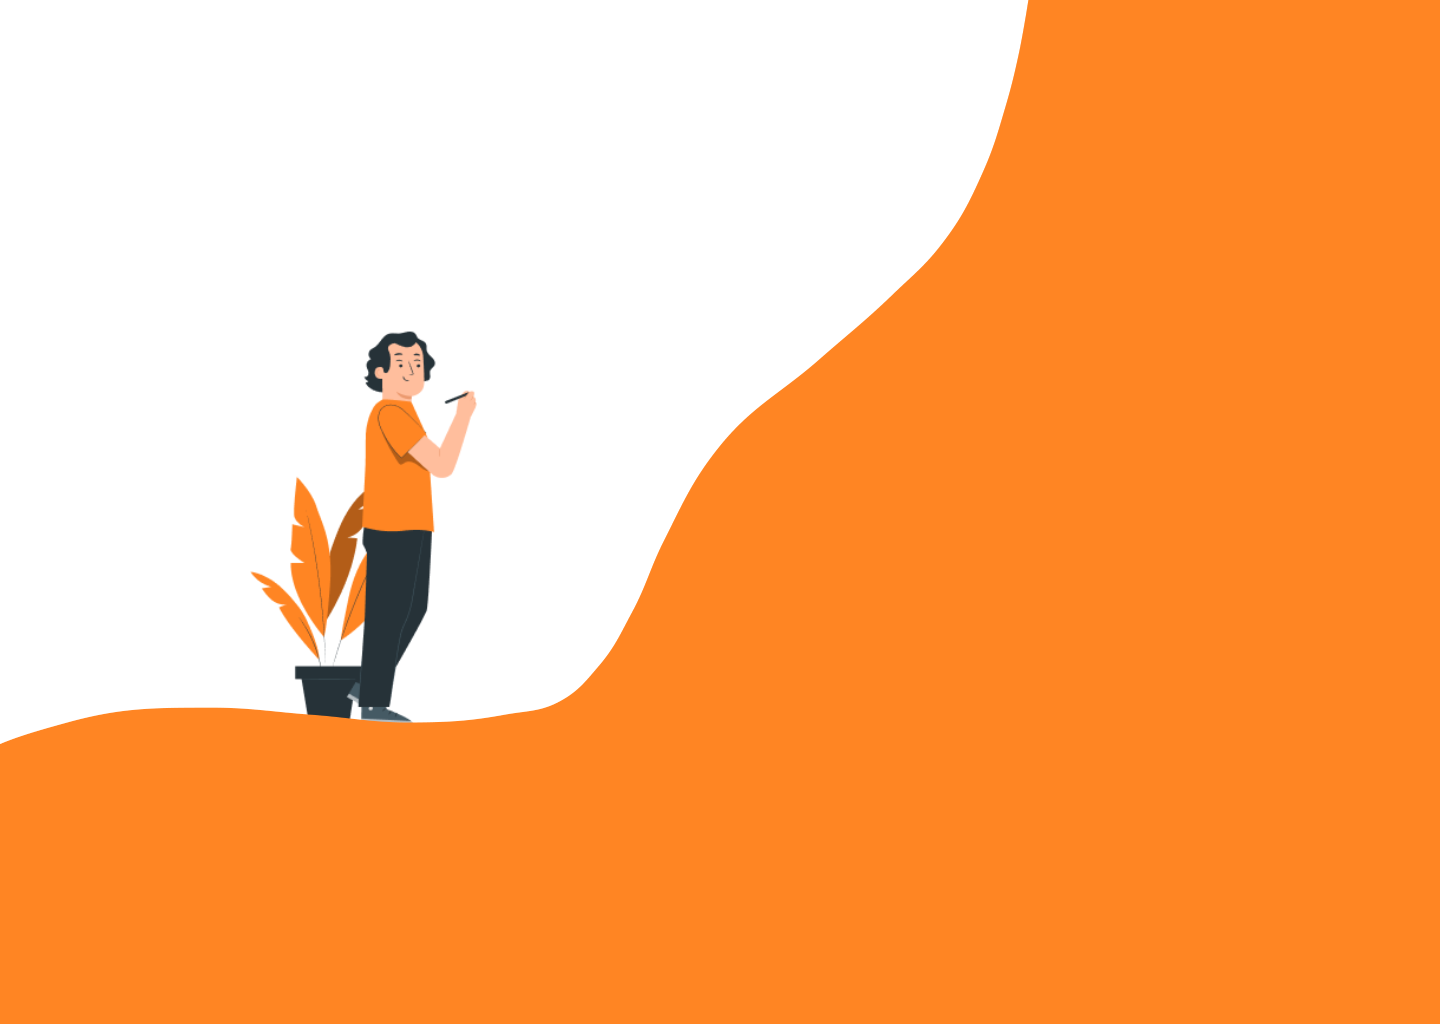
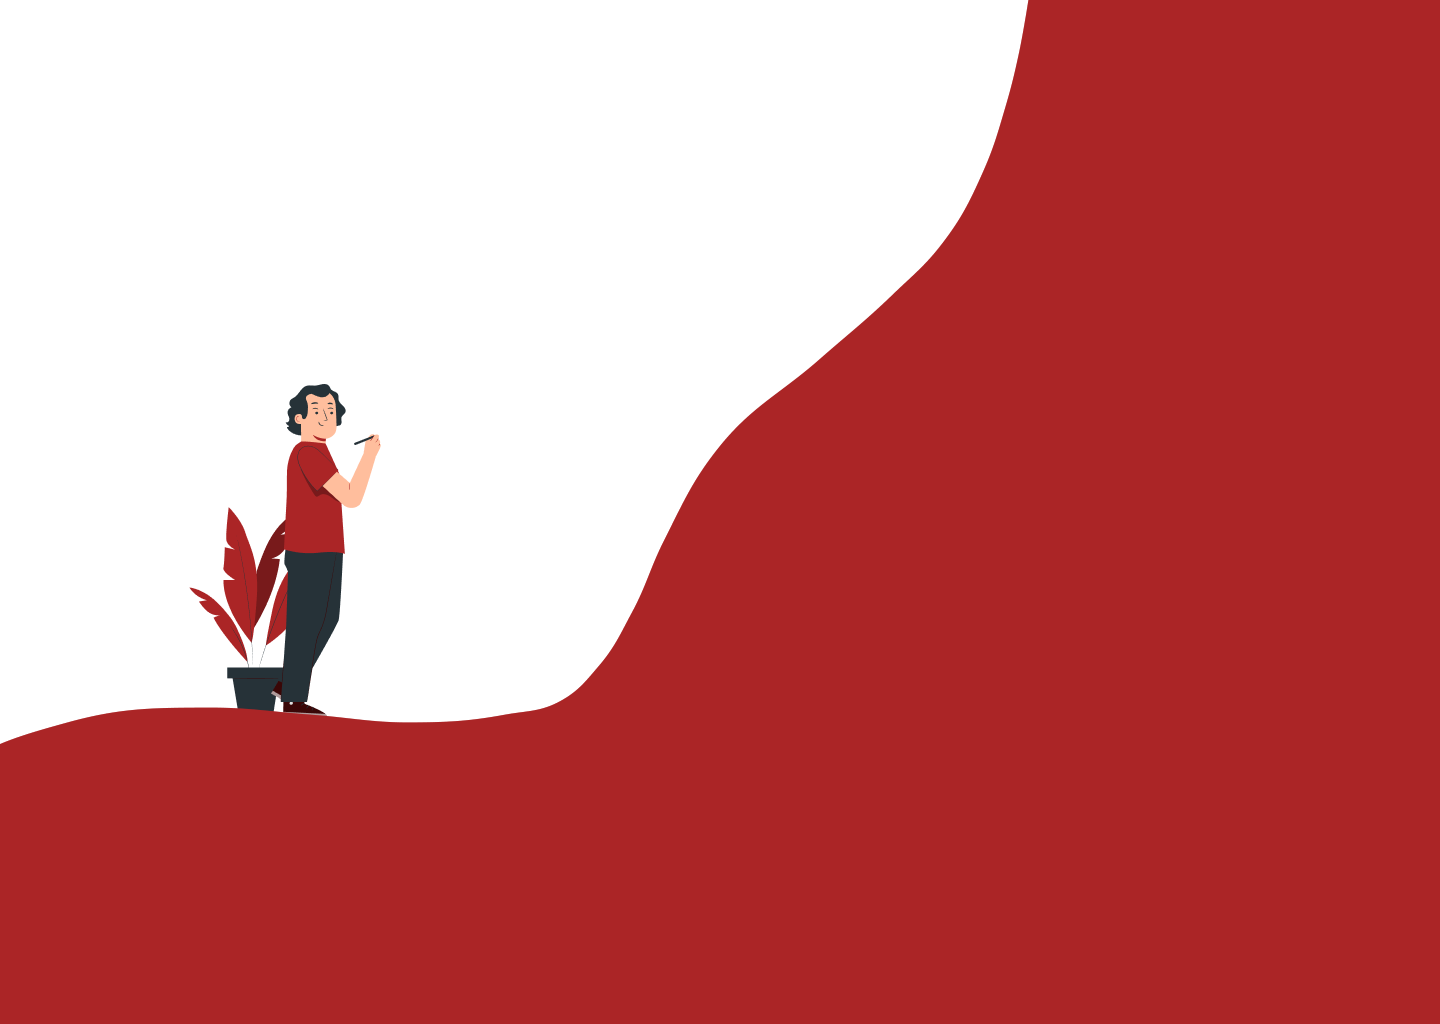
profile menos cerrar sesion

diff --git a/client/src/components/Main/Profile/Profile.jsx b/client/src/components/Main/Profile/Profile.jsx
@@ -8,6 +8,7 @@ import PropuestaCard from "./PropuestaCard/PropuestaCard";
 const Profile = () => {
     const { userstate } = useContext(userContext);
     const [data, setData] = useState(null);
+    const [hayFacturas, setHayFacturas] = useState(false);
 
     const Token = Cookies.get('Token');
 
@@ -50,27 +51,28 @@ const Profile = () => {
 
     const paintPropuestas = () => {
         if (data != null && data != undefined) {
-          return data.Clients?.map(client => (
-            Array.isArray(client.CUPs) && client.CUPs[0]?.facturas?.[0]?.map(factura => (
-                <PropuestaCard
+          return (<>
+          {data.Clients?.map(client => (
+            Array.isArray(client.CUPS) && client.CUPS[0]?.facturas?.length > 0 && (<>
+                {setHayFacturas(true)} 
+                {client.CUPS[0].facturas.map(factura => (
+                  <PropuestaCard
+                    key={factura.id}  
+                    Titular={client.titular}
+                    propuesta={factura.CIA}
+                    fecha={factura.createdAt}
+                  />
+                ))}
+            </>)
+          ))}
+          {!hayFacturas && <PropuestaCard
                 key={1}
-                Titular={client.titular}
-                propuesta={factura.CIA}
-                fecha={factura.cretedAt}
-                />
-            ))
-          ));
-        } else {
-            return (
-            <PropuestaCard
-                key={1}
-                Titular={"Restaurante Name"}
-                propuesta={"CIberdrola, S.A."}
-                fecha={"23 Junio, 2023"}
-                />
-            );
-        }
-      }
+                Titular={"Tilapia Fish"}
+                propuesta={"Endesa Energia, S.A."}
+                fecha={"19 Junio, 2023"}
+                />} </>);
+        } 
+    }
 
 
   return (
@@ -99,7 +101,7 @@ const Profile = () => {
                     <PropuestaCard
                         key={101}
                         Titular={"Restaurante Name"}
-                        propuesta={"CIberdrola, S.A."}
+                        propuesta={"Iberdrola, S.A."}
                         fecha={"23 Junio, 2023"}
                         />
                 </section>
@@ -109,15 +111,15 @@ const Profile = () => {
                     <h6>Propuestas pendientes</h6>
                     <PropuestaCard
                         key={200}
-                        Titular={"Rame Slogan"}
+                        Titular={"AB Creativa"}
                         propuesta={"Candela Energía, S.A."}
-                        fecha={"19 Junio, 2023"}
+                        fecha={"4 Junio, 2023"}
                         />
                     <PropuestaCard
                         key={201}
-                        Titular={"Restaurante Name"}
-                        propuesta={"CIberdrola, S.A."}
-                        fecha={"23 Junio, 2023"}
+                        Titular={"Trust and Co."}
+                        propuesta={"Acciona, S.A."}
+                        fecha={"8 Junio, 2023"}
                         />
                 </section>
             </section>

diff --git a/client/src/styles/components/_Profile.scss b/client/src/styles/components/_Profile.scss
@@ -9,6 +9,7 @@
   &>img {
     z-index: 1;
     width: 348px;
+    height: 329px;
     position: relative;
     top: 171px;
     left: 145px;
@@ -43,6 +44,7 @@
         align-items: center;
         &>img {
           height: 24px;
+          width: 24px;
           margin-right: 6px;
         }
         h5 {
@@ -51,11 +53,66 @@
       }
     }
   }
+  & #Propuestas {
+    position: absolute;
+    left: 48px;
+  }
+  & #PropuestasAceptadas {
+    position: absolute;
+    left: 501px;
+  }
+  & #PropuestasPendientes {
+    position: absolute;
+    left: 955px;
+  }
 }
 
-.active {
-  color: $primary;
+.PropuestaSection {
+  position: absolute;
+  top: 563px;
+  width: 437px;
+  height: 492px;
+  border-radius: 16px;
+  background-color: $white;
+  box-shadow: 4px 4px 4px rgba(0, 0, 0, 0.1);
+  &>section {
+    margin: 24px 16px;
+    overflow-y: scroll;
+    overflow-x: hidden;
+    &>h6 {
+      @include h6;
+      padding-bottom: 22px;
+    }
+    & .CardP {
+      width: 405px;
+      height: 118px;
+      border-radius: 8px;
+      border: 1px solid $gray2;
+      display: flex;
+      flex-direction: column;
+      justify-content: space-around;
+      margin-bottom: 22px;
+      &>h6 {
+        @include caption;
+        color: $gray4;
+        padding-left: 16px;
+      }
+      &>section {
+        width: 115px;
+        height: 20px;
+        background-color: $primary;
+        margin-left: 16px;
+        &>h5 {
+          @include caption;
+          color: $white;
+          padding-left: 8px;
+        }
+      }
+    }
+  }
 }
+
+
 
 
 

diff --git a/client/src/styles/components/_Login.scss b/client/src/styles/components/_Login.scss
@@ -14,7 +14,8 @@
   background-size: cover;
   & img {
     width: 233px;
-    position: relative;
+    height: 134px;
+    position: absolute;
     top: 29px;
     left: 50px;
   }
@@ -67,7 +68,7 @@
       height: 64px;
       flex-shrink: 0;
       border-radius: 32px;
-      background: var(--primario-naranja, #ff8523);
+      background: $primary;
   
       color: #fcfdfd;
       text-align: center;
@@ -81,7 +82,7 @@
       letter-spacing: 0.05px;
     }
     button:hover {
-      background-color: $primary-400;
+      background-color: $primary-600;
     }
     button:disabled {
       background-color: $gray3;

diff --git a/client/src/styles/utils/variables.scss b/client/src/styles/utils/variables.scss
@@ -1,4 +1,4 @@
-$primary: #FF8523;
+$primary: #AB2526;
 $secondary1: #1F1D1C;
 $secondary2: #FAFAFA;
 $white: #FAFAFA;
@@ -14,10 +14,10 @@ $error: #C50505;
 $warning: #DFD721;
 $success: #008F06;
 
-$primary-100: #FFEDE8;
-$primary-200: #FFBFA6;
-$primary-300: #FF8523;
-$primary-400: #CA6500;
-$primary-500: #944800;
-$primary-600: #622E00;
-$primary-700: #341500;
+$primary-100: #fceded;
+$primary-200: #f5bbbb;
+$primary-300: #f08282;
+$primary-400: #EA3738;
+$primary-500: #ab2526;
+$primary-600: #701516;
+$primary-700: #3a0707;

diff --git a/client/src/components/Main/Profile/PropuestaCard/PropuestaCard.jsx b/client/src/components/Main/Profile/PropuestaCard/PropuestaCard.jsx
@@ -6,7 +6,12 @@ const PropuestaCard = ({Titular, propuesta, fecha}) => {
 
   return (
     <>
-      
+    <section className='CardP'>
+        <section><h5>Mensual/Anual</h5></section>
+      <h6>Titular: {Titular}</h6>
+      <h6>Propuesta several: {propuesta}</h6>
+      <h6><b>{fecha}</b></h6>
+    </section>
     </>
   )
 };

diff --git a/schemas/CUPS.js b/schemas/CUPS.js
@@ -27,7 +27,7 @@ const CUPS = db.define("CUPS", {
   },
   direccionSuministro: {
     field: 'direccion_suministro',
-    type: DataTypes.BIGINT,
+    type: DataTypes.STRING,
     allowNull: false,
   }
 }, {

diff --git a/schemas/Client.js b/schemas/Client.js
@@ -26,7 +26,7 @@ const Client = db.define("Client", {
   imagen: {
     field: 'imagen',
     type: DataTypes.TEXT,
-    allowNull: false,
+    allowNull: true,
   }
 }, {
   modelName: 'Client',

diff --git a/client/src/styles/components/_Header.scss b/client/src/styles/components/_Header.scss
@@ -9,7 +9,8 @@
   top: 0;
   & img {
     width: 233px;
-    position: relative;
+    height: 134px;
+    position: absolute;
     top: 29px;
     left: 50px;
   }
